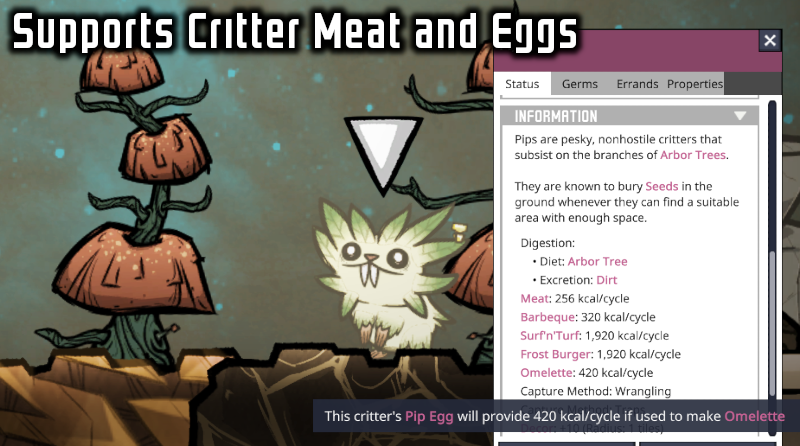
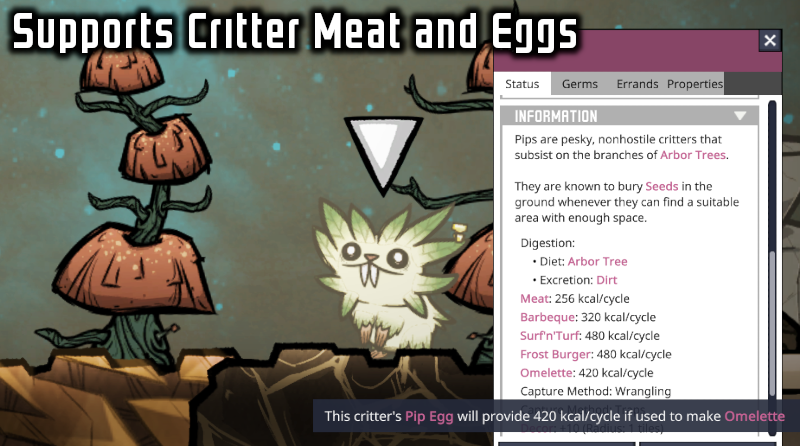
Fix Food Supply Tooltip bug that overstated kcal for some composite foods.

Changed region(s): [[0.7188, 0.6996, 0.8438, 0.8453], [0.75, 0.6413, 0.7812, 0.6704]]

diff --git a/FoodTooltip/FoodRecipeCache.cs b/FoodTooltip/FoodRecipeCache.cs
@@ -89,7 +89,7 @@ namespace PeterHan.FoodTooltip {
 		/// </summary>
 		/// <param name="item">The item to search.</param>
 		/// <param name="found">The foods found so far.</param>
-		/// <param name="quantity">The quantity of the base item used to create the provided item.</param>
+		/// <param name="quantity">The quantity of the base item.</param>
 		private void SearchForRecipe(Tag item, IList<FoodResult> found, float quantity) {
 			var prefab = Assets.GetPrefab(item);
 			if (prefab != null && quantity > 0.0f) {
@@ -108,8 +108,8 @@ namespace PeterHan.FoodTooltip {
 							break;
 						}
 					if (amount > 0.0f)
-						SearchForRecipe(recipe.Result, found, recipe.OutputUnits / (amount *
-							quantity));
+						SearchForRecipe(recipe.Result, found, recipe.OutputUnits * quantity /
+							amount);
 				}
 				// And complex ones too
 				foreach (var recipe in ComplexRecipeManager.Get().recipes) {
@@ -123,8 +123,8 @@ namespace PeterHan.FoodTooltip {
 					if (amount > 0.0f)
 						// Check all results of the recipe
 						foreach (var result in recipe.results)
-							SearchForRecipe(result.material, found, result.amount / (amount *
-								quantity));
+							SearchForRecipe(result.material, found, result.amount * quantity /
+								amount);
 				}
 			}
 		}
